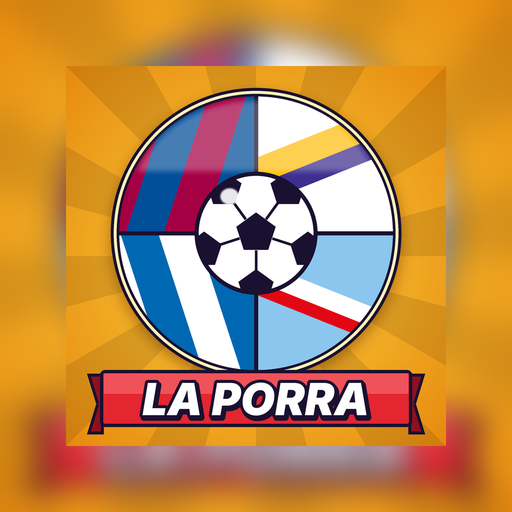
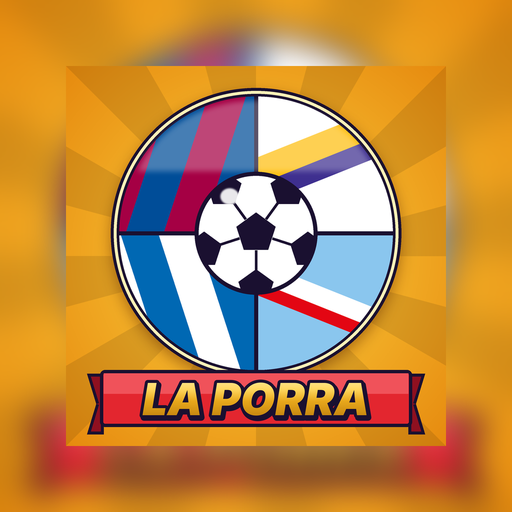
Letras doradas en el icono
Claude-Session: https://claude.ai/code/session_01WnahYQ44zuL5MJNsFyzTZ6

Changed region(s): [[0.1562, 0.8438, 0.8125, 0.9688], [0.2812, 0.75, 0.7188, 0.8125]]

diff --git a/sw.js b/sw.js
@@ -1,5 +1,5 @@
 // La Porra · service worker: app instalable, funciona offline la portada y recibe avisos
-const CACHE = "porra-v9";
+const CACHE = "porra-v10";
 const SHELL = ["./", "index.html", "manifest.json", "icons/icon-192.png", "icons/icon-512.png", "icons/apple-touch-icon.png", "icons/logo.png", "img/cracks.webp", "img/cracks.jpg"];
 
 self.addEventListener("install", (e) => {

diff --git a/tools/icono.py b/tools/icono.py
@@ -75,7 +75,18 @@ def render(S=1024, scale=1.0, ribbon=True):
         f = font(int(bh*.78)); txt = "LA PORRA"
         tw = d.textlength(txt, font=f); tx = (W - tw)/2; ty = by + bh*.04
         d.text((tx+8, ty+12), txt, font=f, fill=INK, stroke_width=18, stroke_fill=INK)
-        d.text((tx, ty), txt, font=f, fill="#ffffff", stroke_width=16, stroke_fill=INK)
+        d.text((tx, ty), txt, font=f, fill=INK, stroke_width=16, stroke_fill=INK)
+        # letras doradas con degradado y brillo
+        tm = Image.new("L", (W, W), 0); ImageDraw.Draw(tm).text((tx, ty), txt, font=f, fill=255)
+        gy = np.linspace(0, 1, W)[:, None] * np.ones((1, W))
+        t0, t1 = (by) / W, (by + bh) / W; k = np.clip((gy - t0) / (t1 - t0), 0, 1)
+        stops = [(0, (255, 248, 196)), (.35, (255, 214, 92)), (.55, (232, 168, 28)), (1, (176, 112, 8))]
+        col = np.zeros((W, W, 3))
+        for (p0, c0), (p1, c1) in zip(stops, stops[1:]):
+            m = (k >= p0) & (k <= p1); u = ((k - p0) / (p1 - p0))[..., None]
+            col = np.where(m[..., None], np.array(c0) + (np.array(c1) - np.array(c0)) * u, col)
+        gold = Image.fromarray(col.astype("uint8")).convert("RGBA")
+        img.paste(gold, (0, 0), tm)
     return img.resize((S, S), Image.LANCZOS).convert("RGB")
 if __name__ == "__main__":
     out = sys.argv[1] if len(sys.argv) > 1 else "icons"
